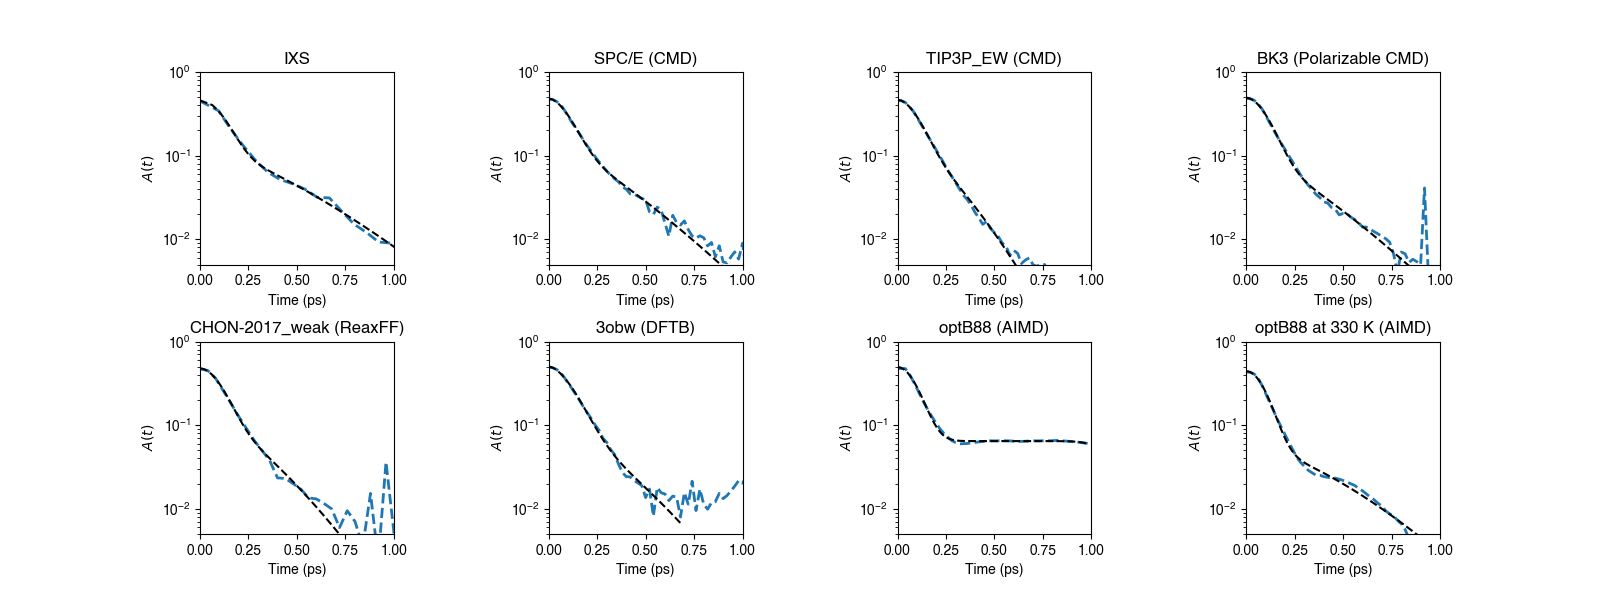
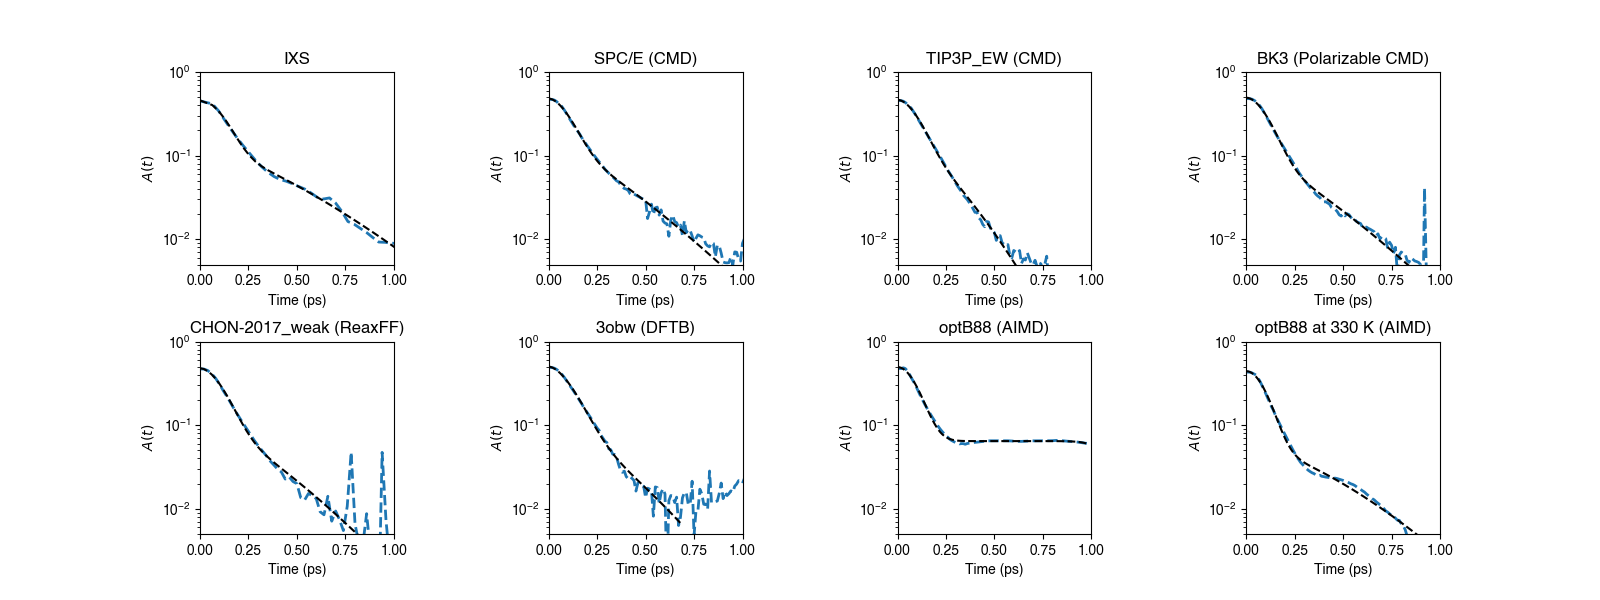
Fix time on reaxff partials

diff --git a/water_vhf_analysis/data/time_and_size/make_plot.py b/water_vhf_analysis/data/time_and_size/make_plot.py
@@ -301,7 +301,7 @@ def combined_auc(datas, size_datas):
                 )
 
     ax.xaxis.set_major_locator(MultipleLocator(0.1))
-    ax.set_xlim((0.00, 0.6))
+    ax.set_xlim((0.00, 1.0))
     ax.set_ylim((5e-3, 1.0))
     ax.set_ylabel(r'A($t$)', fontsize=fontsize)
     ax.set_xlabel(r'Time, $t$, $ps$', fontsize=fontsize)
@@ -337,7 +337,7 @@ def combined_auc(datas, size_datas):
                 )
 
     ax.xaxis.set_major_locator(MultipleLocator(0.1))
-    ax.set_xlim((0.00, 0.6))
+    ax.set_xlim((0.00, 1.0))
     ax.set_ylim((5e-3, 1.0))
     ax.set_ylabel(r'A($t$)', fontsize=fontsize)
     ax.set_xlabel(r'Time, $t$, $ps$', fontsize=fontsize)
@@ -459,7 +459,7 @@ def first_peak_auc(time_datas, size_datas):
 
 #first_peak_height(datas)
 #first_peak_auc(datas)
-#combined_with_size(datas, size_datas)
+combined_with_size(datas, size_datas)
 combined_auc(datas, size_datas)
 first_peak_auc(datas, size_datas_no_ixs)
 #first_subplot(datas)

diff --git a/water_vhf_analysis/analysis/plot_partials.py b/water_vhf_analysis/analysis/plot_partials.py
@@ -58,13 +58,13 @@ def get_data(pair):
 
     reaxff = {
         "r": np.loadtxt(
-            get_txt_file("reaxff/partial_overlap_nvt", f"r_final_{pair}.txt")
+            get_txt_file("reaxff/9000_partial_overlap_nvt", f"r_final_{pair}.txt")
         ),
         "t": np.loadtxt(
-            get_txt_file("reaxff/partial_overlap_nvt", f"t_final_{pair}.txt")
-        ),
+            get_txt_file("reaxff/9000_partial_overlap_nvt", f"t_final_{pair}.txt")
+        )-200,
         "g": np.loadtxt(
-            get_txt_file("reaxff/partial_overlap_nvt", f"vhf_final_{pair}.txt")
+            get_txt_file("reaxff/9000_partial_overlap_nvt", f"vhf_final_{pair}.txt")
         ),
         "name": "CHON-2017_weak (ReaxFF)",
     }

diff --git a/water_vhf_analysis/analysis/plot_summary.py b/water_vhf_analysis/analysis/plot_summary.py
@@ -79,9 +79,9 @@ tip3p_ew = {
 }
 
 reaxff = {
-    "r": np.loadtxt(get_txt_file("reaxff/overlap_nvt", "r_final.txt")),
-    "t": np.loadtxt(get_txt_file("reaxff/overlap_nvt", "t_final.txt")),
-    "g": np.loadtxt(get_txt_file("reaxff/overlap_nvt", "vhf_final.txt")),
+    "r": np.loadtxt(get_txt_file("reaxff/9000_overlap_nvt", "r_final.txt")),
+    "t": np.loadtxt(get_txt_file("reaxff/9000_overlap_nvt", "t_final.txt")),
+    "g": np.loadtxt(get_txt_file("reaxff/9000_overlap_nvt", "vhf_final.txt")),
     "name": "CHON-2017_weak (ReaxFF)",
 }
 
